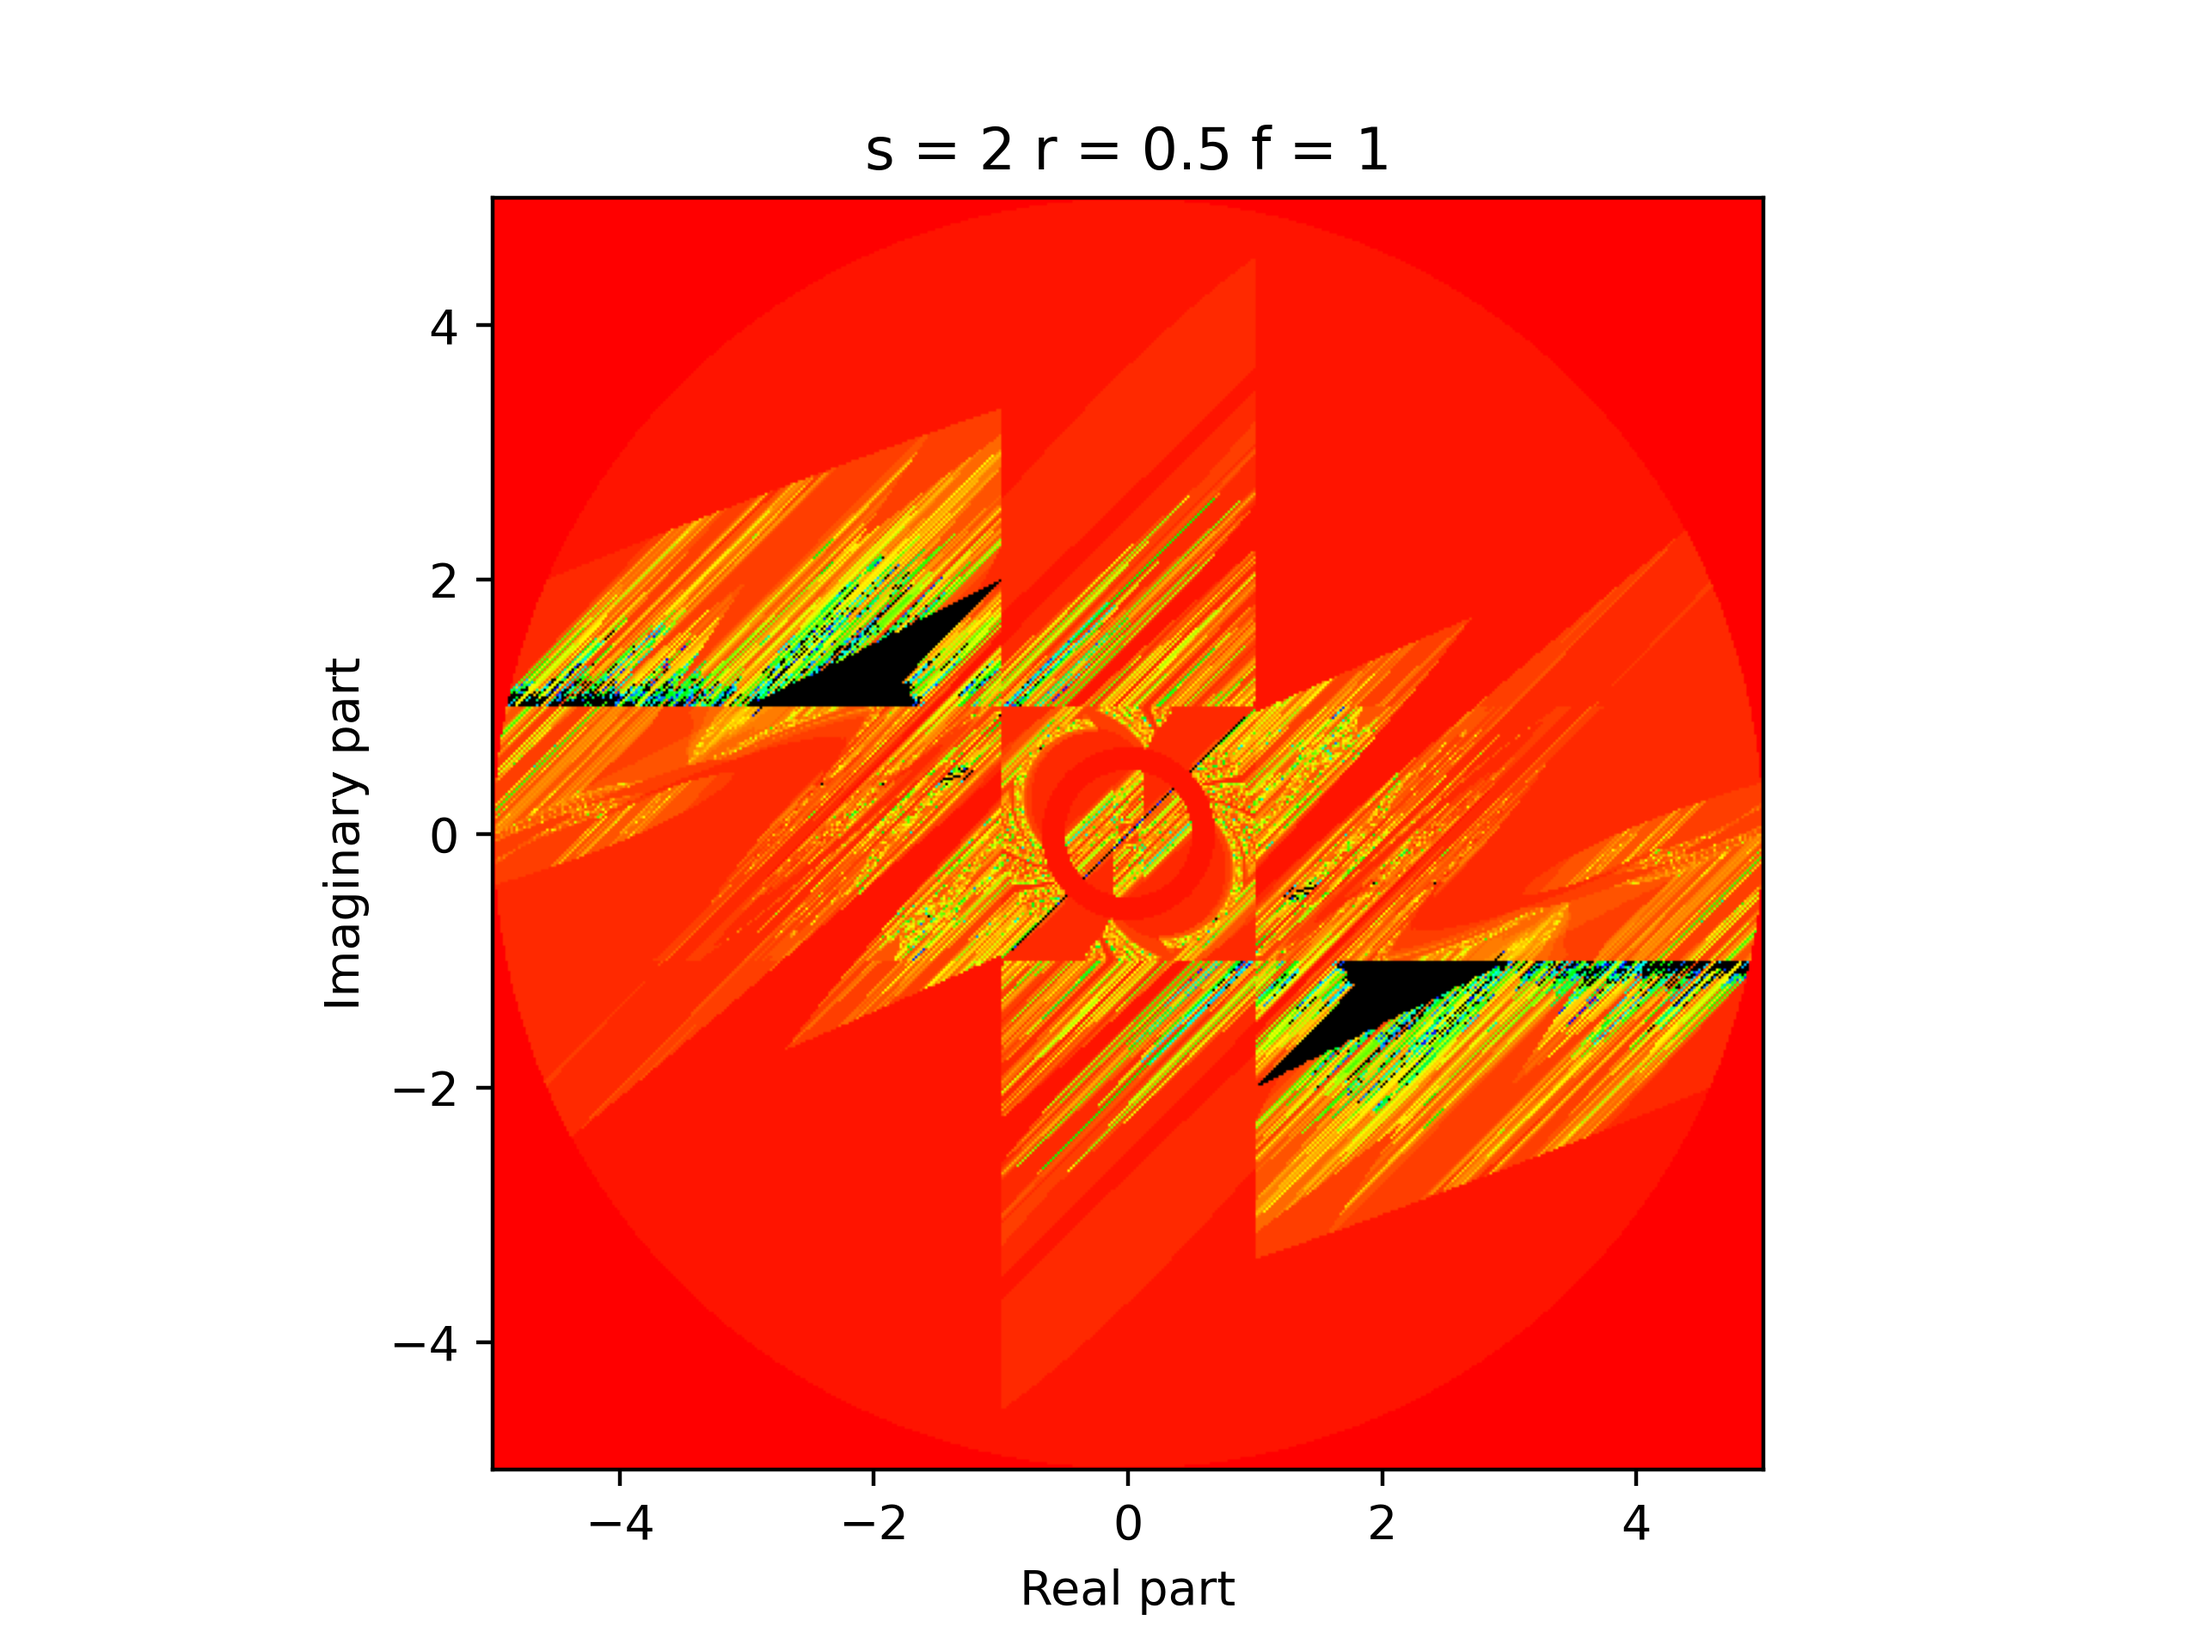
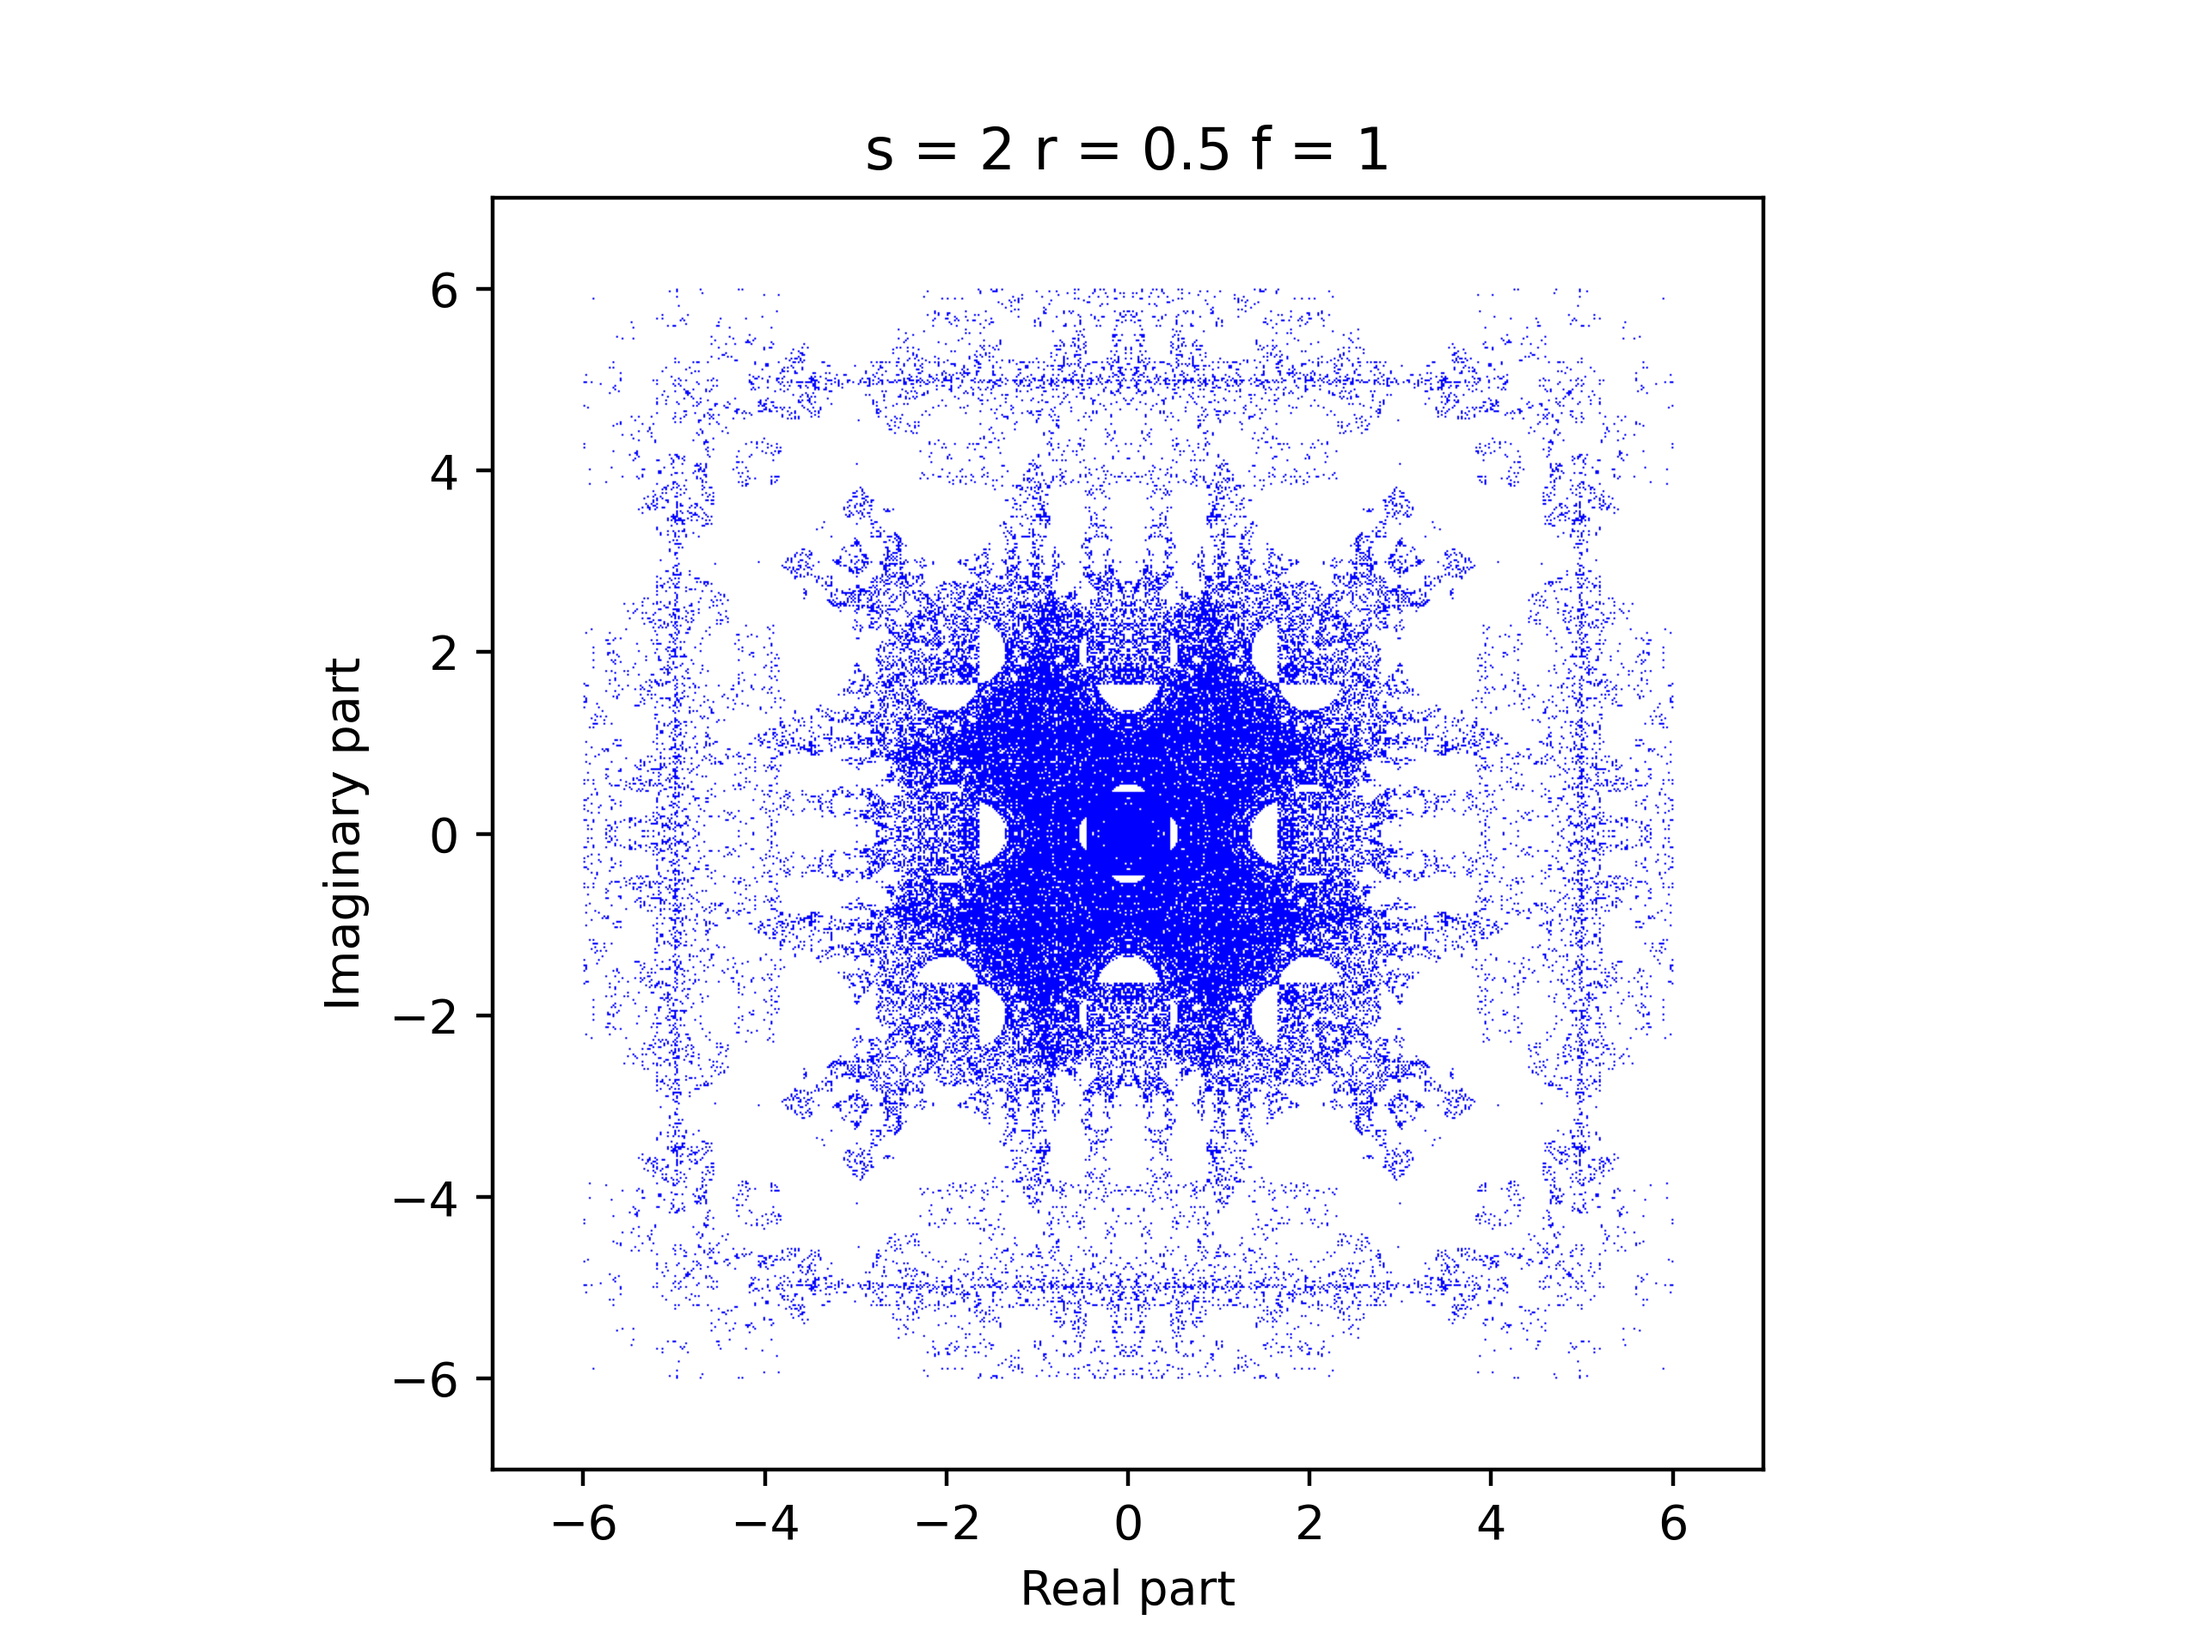
the mandelbox are working yeah !!
script + images

diff --git a/mandelbox/mandelbox.py b/mandelbox/mandelbox.py
@@ -29,20 +29,22 @@ def transfo( s , r , f , z ):
     '''
     Applies the Mandelbox transformation to the complex z, defined as below :
     
-    z = s . ballFold( r , f . boxFold(z) ) + c
+    z = s . ballFold( r , f . boxFold(z) )
     
     '''
 
     #= BoxFold =#
-    if( np.real(z) > 1 ):
-        z = (2-np.real(z)) + np.imag(z)
-    elif(np.real(z) < -1 ):
-        z = (-2-np.real(z)) + np.imag(z)
-    
     if( np.imag(z) > 1 ):
-        z = np.real(z) + (2-np.imag(z))
+        z = np.real(z) + (2-np.imag(z))*1j
     elif(np.imag(z) < -1 ):
-        z = np.real(z) + (-2-np.imag(z))
+        z = np.real(z) + (-2-np.imag(z))*1j
+    
+    if( np.real(z) > 1 ):
+        z = (2-np.real(z)) + np.imag(z)*1j
+    elif(np.real(z) < -1 ):
+        z = (-2-np.real(z)) + np.imag(z)*1j
+    
+    
     #==#
     
     z = f * z
@@ -56,7 +58,7 @@ def transfo( s , r , f , z ):
     
     return( s * z )
     
-def mandelbox( output , s,r,f , minRadius , maxRadius , show , verbose ):
+def mandelbox( output , s,r,f , maxRadius , show , verbose ):
        
     for i in range( yWidth ):
         
@@ -70,16 +72,16 @@ def mandelbox( output , s,r,f , minRadius , maxRadius , show , verbose ):
             z = coord_1(i,j)
             z0 = z
             
-            while ( iter<iterMax and np.abs(z) < maxRadius and np.abs(z) > minRadius ):
+            while ( iter<iterMax and np.abs(z) < maxRadius):
                 z = z0 + transfo(s,r,f,z)
                 
                 iter += 1
             
             #==# Adding colors #==#
             if( iter == iterMax ):
-                output[i,j] = [0,0,0]
+                output[i,j] = Color("blue").rgb
             else:
-                output[i,j] = colours[iter]
+                output[i,j] = [1,1,1]
     
     
     if( show ):
@@ -96,30 +98,19 @@ def mandelbox( output , s,r,f , minRadius , maxRadius , show , verbose ):
         plt.show()
 
 
-
-def generateGif():
-    
-    images = []
-    
-    for i in range(imageCount):
-        images.append( iio.imread( path + "..\\temp\\mandelbox_" + str(i) + ".png"  ))
-    
-    iio.mimsave(path + 'c = ' + str(c0) + ' R = ' + str(R) + '.gif', images)
-    
-    
 #===# PARAMETERS #===#
 
 #==# GRID #==#
 path = "C:\\Users\\R0MAIN\\Documents\\GitHub\\Fractale\\mandelbox\\"
 
-gridRes = 1e-2
-iterMax = 50
+gridRes = 2e-2
+iterMax = 20
 
-xMin = -5
-xMax = 5
+xMin = -7
+xMax = 7
 
-yMin = -5
-yMax = 5
+yMin = -7
+yMax = 7
 
 xWidth = int( (xMax - xMin) / gridRes )
 yWidth = int( (yMax - yMin) / gridRes )
@@ -132,28 +123,16 @@ print("= = = = = = = = = = = = ")
 output = np.zeros((yWidth,xWidth,3),dtype = 'float')
 #====#
 
-#==# COLOURS #==#
-col = ["red","blue"]
-colours = []
-
-for i in range(len(col)-1):
-    colours += list(Color(col[i]).range_to(Color(col[i+1]),iterMax//(len(col)-1) ))
-    
-colours = [c.rgb for c in colours]
-#====#
-
 #==# MANDELBOX #==#
 s = 2
 r = .5
 f = 1
 
-minRadius = .1
-maxRadius = 50
-
+maxRadius = 20
 #====#
 
-output = np.zeros((yWidth,xWidth,3),dtype = 'float')
-mandelbox( output , s,r,f , minRadius , maxRadius , show = True , verbose = True)
-
-
     
+output = np.zeros((yWidth,xWidth,3),dtype = 'float')
+mandelbox( output , s,r,f , maxRadius , show = True , verbose = True)
+
+

diff --git a/julia set/juliaset.py b/julia set/juliaset.py
@@ -1,6 +1,7 @@
 import numpy as np
 import matplotlib.pyplot as plt
 import imageio as iio
+from PIL import Image, ImageDraw
 
 from colour import Color
 
@@ -75,8 +76,7 @@ def generateGif():
         images.append( iio.imread( path + "..\\temp\\fractale_" + str(i) + ".png"  ))
     
     iio.mimsave(path + 'c = ' + str(c0) + ' R = ' + str(R) + '.gif', images)
-    
-    
+
 #===# PARAMETERS #===#
 
 #==# GRID #==#
